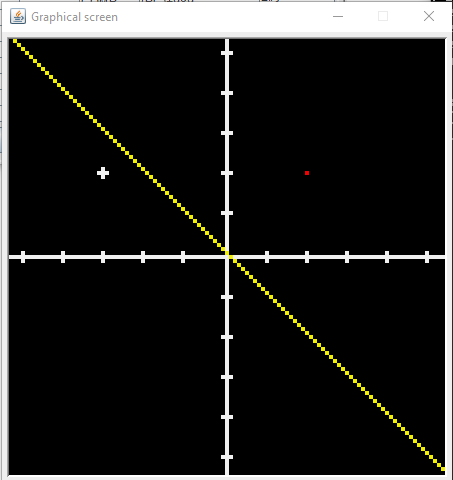
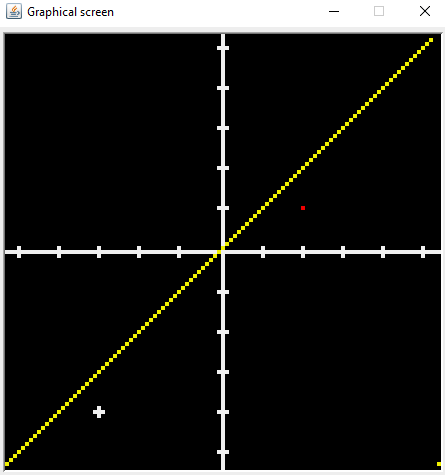
add coordinate system

diff --git a/coordinate-system/README.md b/coordinate-system/README.md
@@ -2,15 +2,38 @@
 This demo is part of SicDemos: a collection of assembly programs for the SIC/XE computer architecture. SicDemos is a companion project of [SicTools](https://github.com/jurem/SicTools) project (SIC/XE hypothetical computer simulator).
 
 ## Coordinate System
-Solve the famous Towers of Hanoi puzzle. Register A is set up with the initial number of disks (default 10).
+Plot some basic functions and points on a graph. The graph works on an interval of [-5, 5] and only with integers.
+Use standard input to give the program instructions on what to draw. 
 * Source code: KoordinatniSistem.asm
 * Frequency: 10000 Hz = 10 kHz
 * Standard input
 * Author: Ambrož Janc, 2020
 
+How to use:
+ - graphical screen, 109x109 
+ - frequency, 10000 (1000 works as well)
+ - input: 
+	- colour is element of {r - red, w - white, y - yellow, g - green}
+	- x, y and n are elements of [-5, 5]
+   - draw a point: 
+		- pxyK{colour}
+		- where K is optional and if used will draw the point as a cross
+		- p22r -> draws point at x = 2, y = 2 in red colour
+		- p-23Ky -> draws point as a cross at x = -2, y = 3 in yellow colour
+   - draw a function:
+		- functions have two ways of input:
+			- y = x and y = -x : fx{colour} and f-x{colour}
+			- y = n: fn{colour}
+			- f-4w -> draws y = -4 function in white colour
+			- fxr -> draws y = x function in red colour
+	- clear screen: c
+	- exit program: 0
+
 ## Coordinate System - graphical screen
-Graphical animation of a coordinate system.
 ![Picture of the graphical screen of the coordinate system](./graphical-screen.png)
+Graphical animation of a coordinate system.
 * Source code: KoordinatniSistem.asm
 * Graphical screen: 109 rows x 109 columns at A000
 * Frequency: 10000 Hz = 10 kHz
+
+Commands to recreate the picture: 'p21r', 'p-3-4Kw', 'fxy'
